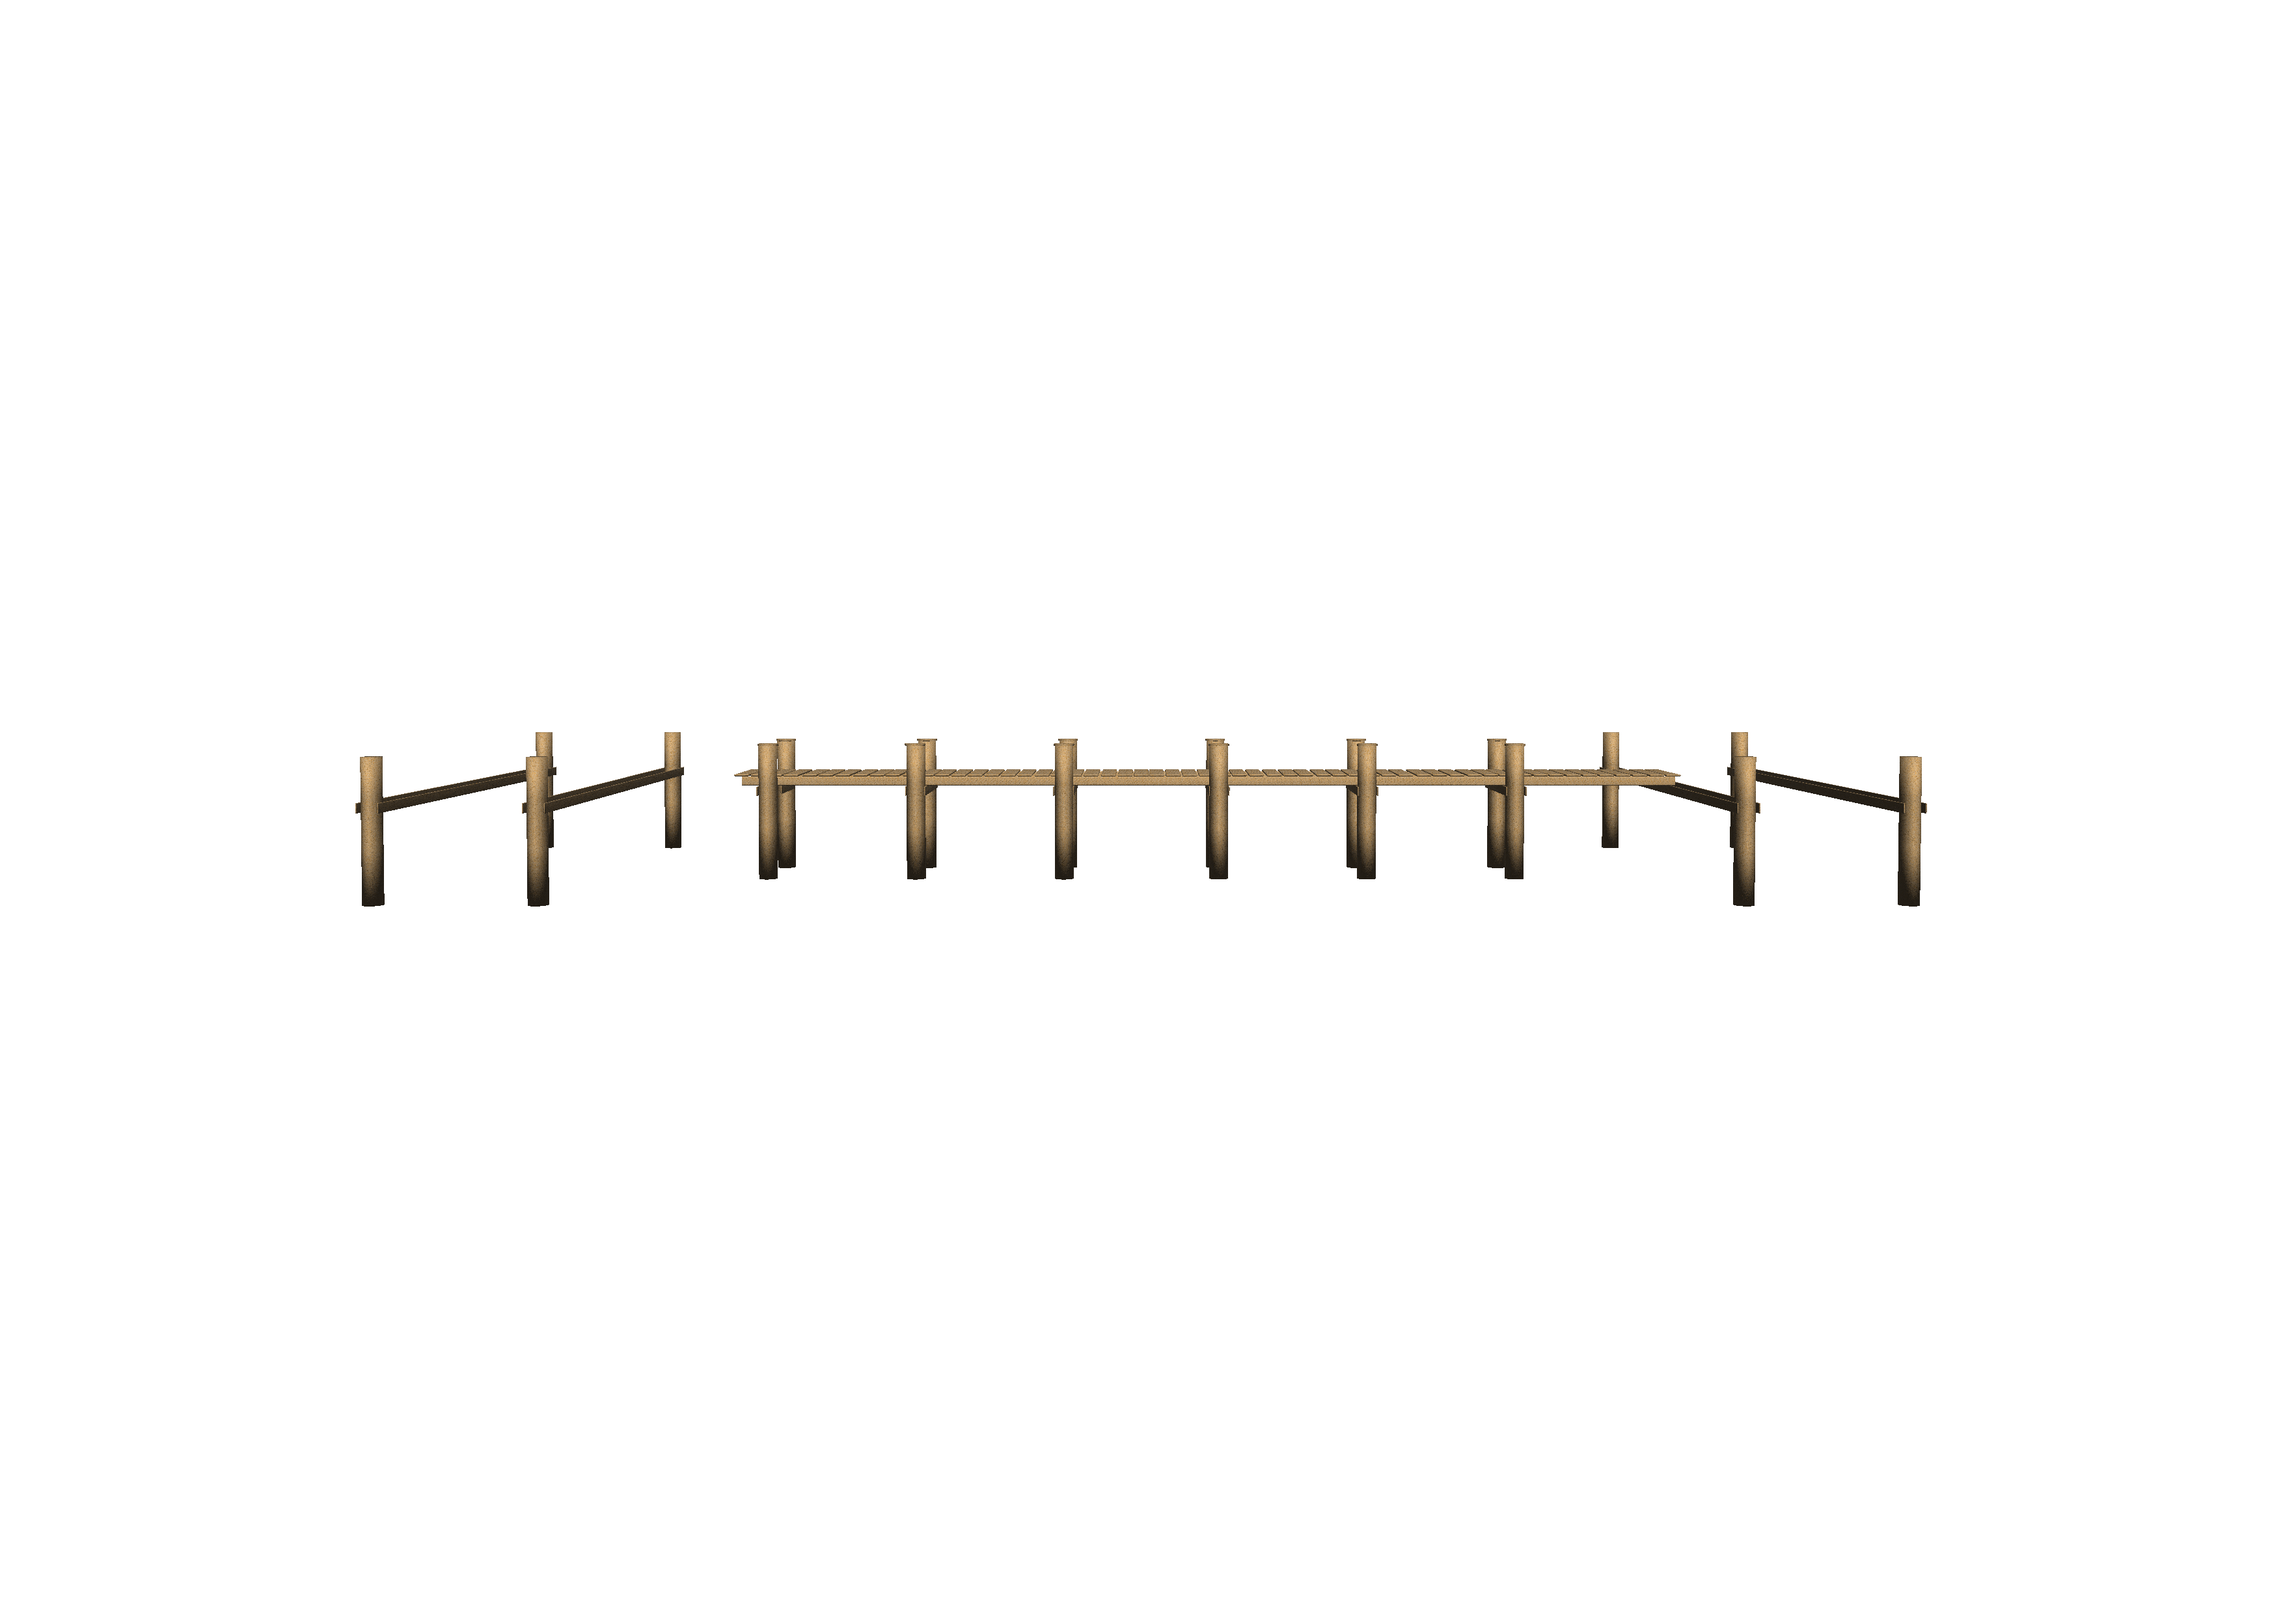
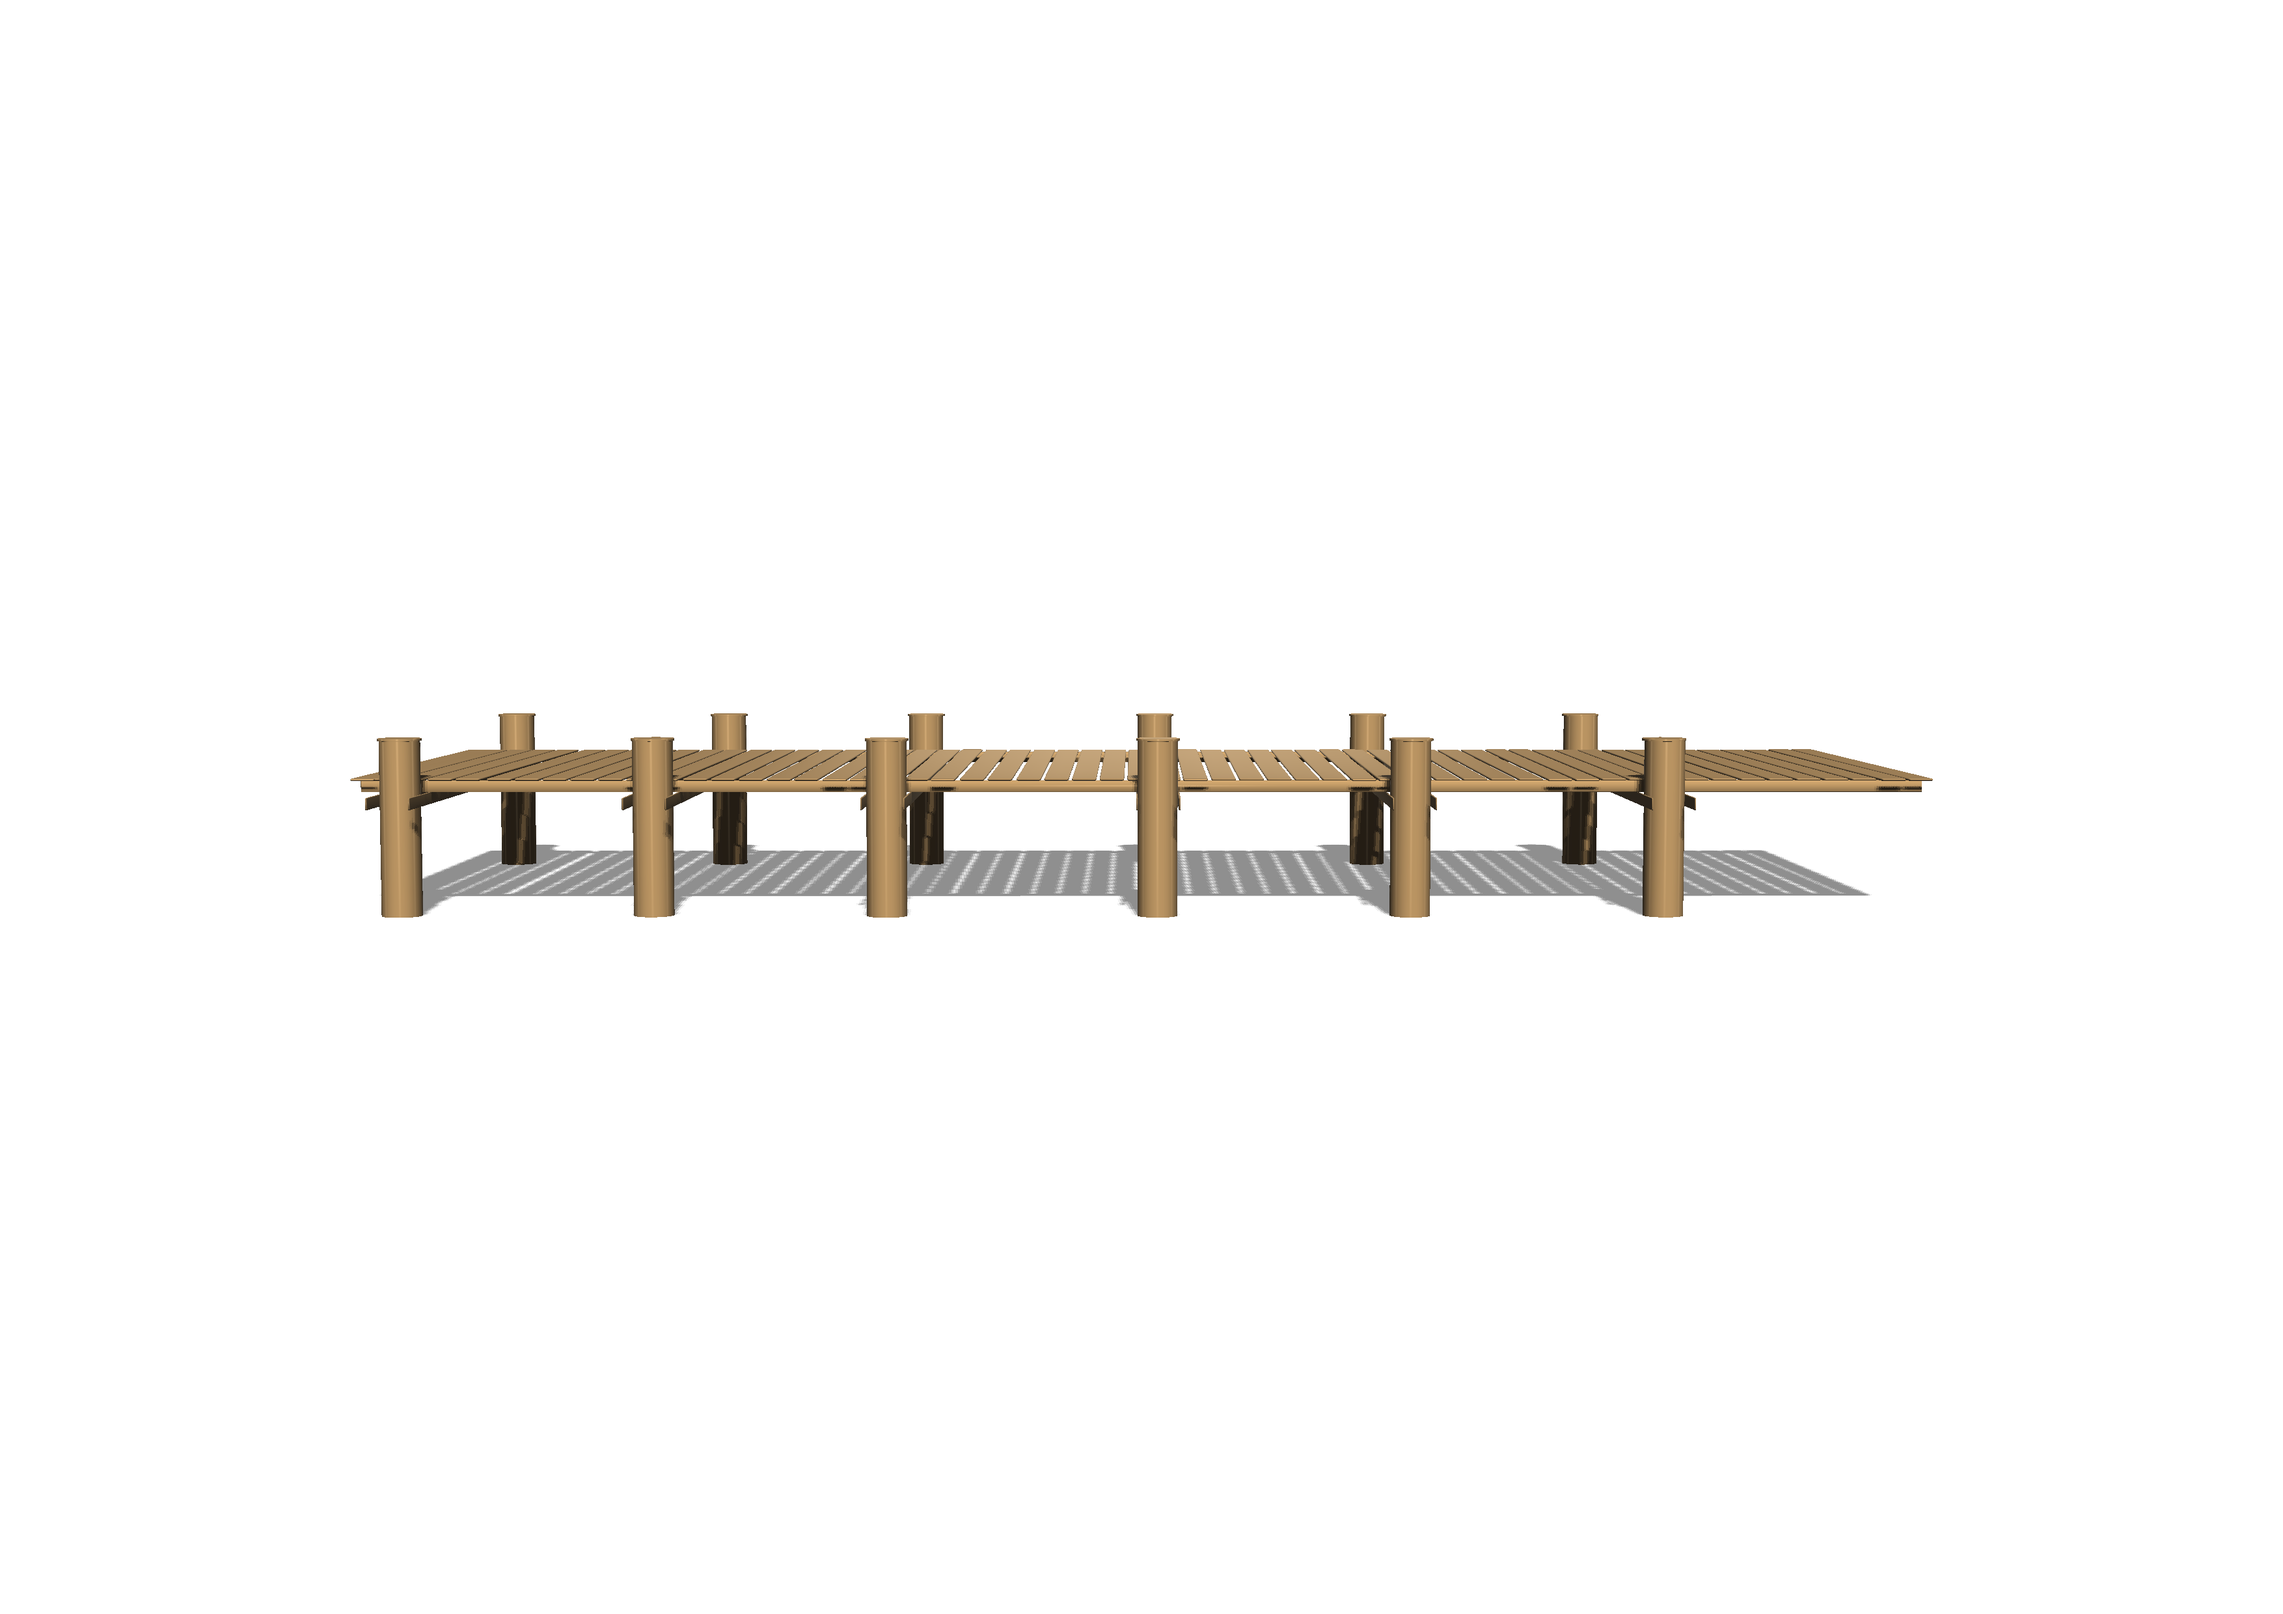
Bridge finished
The first and the second one is perfect but the following aren't good! Still optimizing a third image, at the beginning and at the end another one continuing in between, the same

Changed region(s): [[0.1554, 0.4347, 0.8389, 0.5899]]

diff --git a/informatikProjekt_Lynn_Michèle_L23a.py b/informatikProjekt_Lynn_Michèle_L23a.py
@@ -60,13 +60,13 @@ background.x = 0
 background1 = Actor("forestbackground1.jpg")
 background1.x = WIDTH
 
-bridge = Actor("bridge1.png")
+bridge = Actor("bridge5.png")
 bridge.x = 0
-bridge1 = Actor ("bridge2.png")
+bridge1 = Actor ("bridge6.png")
 bridge1.x = WIDTH
-bridge2 = Actor("bridge2.png")
+bridge2 = Actor("bridge5.png")
 bridge2.x = 0
-bridge3 = Actor("bridge1.png")
+bridge3 = Actor("bridge6.png")
 bridge3.x = WIDTH
 
 test = Actor("mensch1.png")
@@ -198,10 +198,10 @@ def movebackground():
 def kostuemwechseln():
     if test.image == "mensch1.png":
         test.image = "mensch2.png"
-        time.sleep(0.1)
+        time.sleep(0)
     else:
         test.image = "mensch1.png"
-        time.sleep(0.1)
+        time.sleep(0)
           
 music()
 pgzrun.go()
